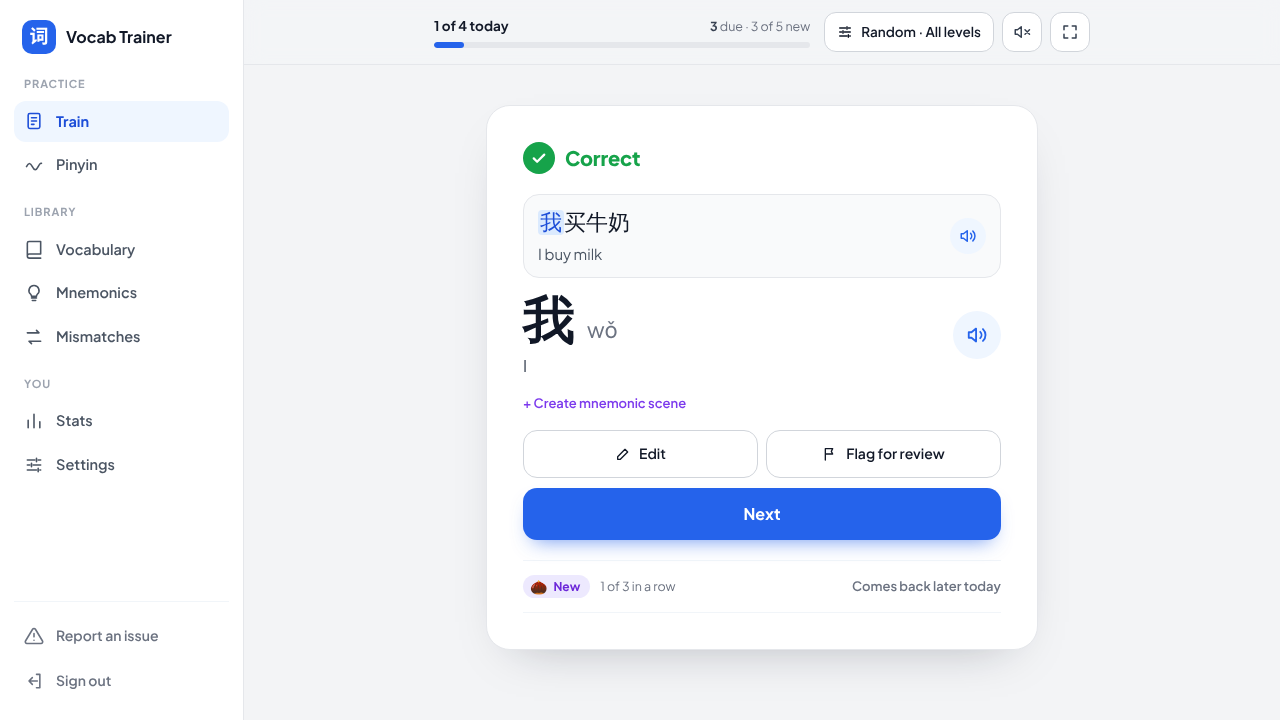
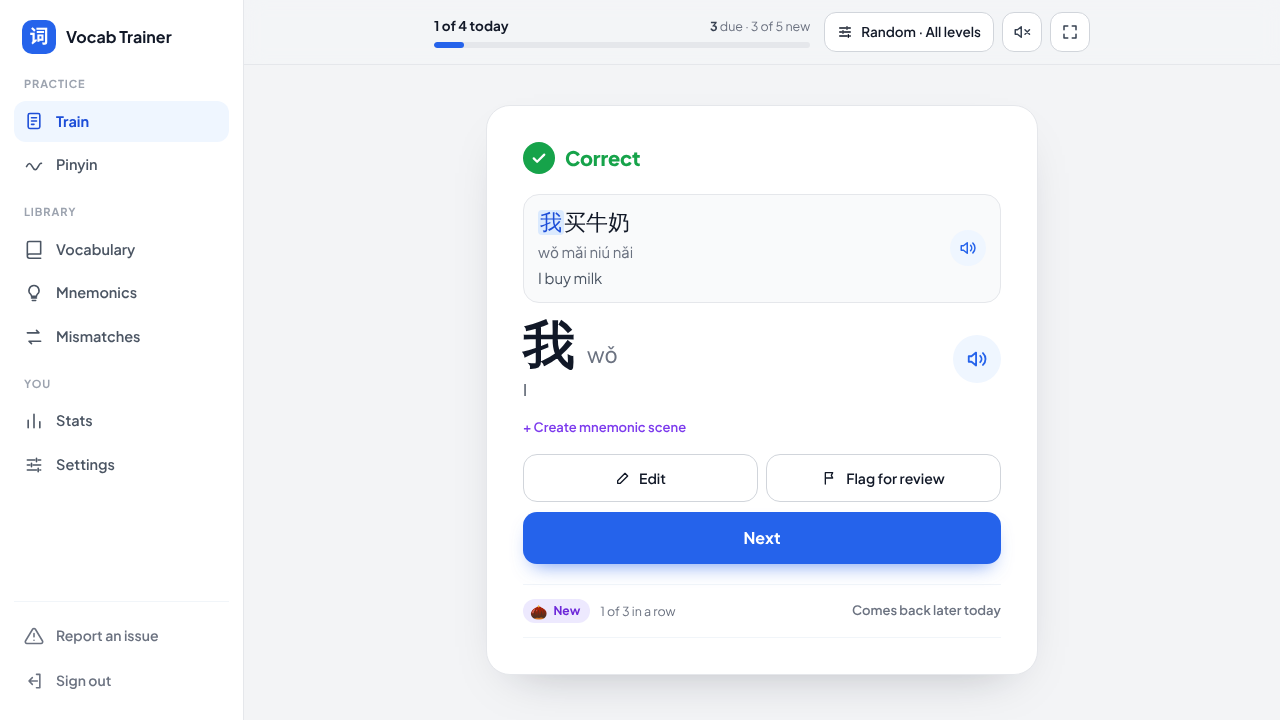
Show sentence pinyin on the sentence-blank result screen (#615)
The sentence-blank card now carries the sentence's stored pinyin
(sentence_pinyin). The result screen shows it under the full sentence,
above the translation. The question screen does not show it, because
it would give away the answer. When the sentence has no pinyin, the
line is not shown.

Claude-Session: https://claude.ai/code/session_01CJtqNe5tVmbCgrQGrssY3E

diff --git a/service/frontend/train-result.js b/service/frontend/train-result.js
@@ -168,20 +168,23 @@ function sentenceHighlightHTML(sentence, word) {
     escHtml(sentence.slice(i + word.length));
 }
 
-// renderResultSentence shows the full sentence, its translation and a
-// speaker button above the answer word on sentence-blank results (issue
-// #557); hidden for every other card.
+// renderResultSentence shows the full sentence, its pinyin, its translation
+// and a speaker button above the answer word on sentence-blank results
+// (issues #557, #615); hidden for every other card.
 function renderResultSentence(zhText) {
   if (currentCard.card_type !== 'sentence' || !currentCard.sentence_text) {
     hide('result-sentence');
     return;
   }
   const el = $('result-sentence');
+  const pinyin = currentCard.sentence_pinyin
+    ? `<div class="tr-sentence-pinyin">${escHtml(currentCard.sentence_pinyin)}</div>` : '';
   const transl = currentCard.sentence_translation
     ? `<div class="tr-sentence-transl">${escHtml(currentCard.sentence_translation)}</div>` : '';
   el.innerHTML = `<div class="tr-word-row">
       <div class="tr-word-main">
         <div class="tr-sentence-zh font-hanzi">${sentenceHighlightHTML(currentCard.sentence_text, zhText)}</div>
+        ${pinyin}
         ${transl}
       </div>
       ${speakerButtonHTML('result-sentence-play', true)}

diff --git a/e2e/sentence-blank.spec.js b/e2e/sentence-blank.spec.js
@@ -256,6 +256,7 @@ test.describe('Sentence-blank training mode', () => {
     await expect(block).toBeVisible();
     await expect(block.locator('.tr-sentence-zh')).toHaveText('我买牛奶');
     await expect(block.locator('.tr-sentence-zh mark')).toHaveText(correctZh);
+    await expect(block.locator('.tr-sentence-pinyin')).toHaveText('wǒ mǎi niú nǎi');
     await expect(block.locator('.tr-sentence-transl')).toHaveText('I buy milk');
     // The sentence sits above the answer word.
     const blockBox = await block.boundingBox();
@@ -278,6 +279,7 @@ test.describe('Sentence-blank training mode', () => {
 
     await expect(page.locator('#result-sentence')).toBeVisible();
     await expect(page.locator('#result-sentence .tr-sentence-zh')).toHaveText('我买牛奶');
+    await expect(page.locator('#result-sentence .tr-sentence-pinyin')).toHaveText('wǒ mǎi niú nǎi');
     await expect(page.locator('#result-sentence .tr-sentence-transl')).toHaveText('I buy milk');
     await captureForPR(page, 'sentence-result-wrong');
   });

diff --git a/service/frontend/app.css b/service/frontend/app.css
@@ -451,6 +451,7 @@ label.st-text { cursor: pointer; }
 .tr-sentence-box { margin-bottom: 14px; padding: 12px 14px; border-radius: 16px; background: #f9fafb; border: 1px solid #e5e7eb; }
 .tr-sentence-zh { font-size: 22px; line-height: 1.45; color: #111827; overflow-wrap: anywhere; }
 .tr-sentence-zh mark { background: #dbeafe; color: #1d4ed8; border-radius: 4px; padding: 0 2px; }
+.tr-sentence-pinyin { margin-top: 2px; font-size: 15px; line-height: 1.5; color: #6b7280; overflow-wrap: anywhere; }
 .tr-sentence-transl { margin-top: 4px; font-size: 15px; line-height: 1.5; color: #4b5563; }
 .tr-answer-form { margin-top: 26px; display: flex; flex-direction: column; gap: 10px; }
 .tr-input { flex: 1; min-width: 0; width: 100%; border: 1.5px solid #d1d5db; border-radius: 12px; padding: 12px 14px; font-size: 16px; color: #111827; background: #fff; font-family: inherit; }

diff --git a/service/db/sentences.go b/service/db/sentences.go
@@ -28,10 +28,11 @@ type wordSegment struct {
 // sentenceBlankMatch is the result of findSentenceBlank: which due word was
 // found inside which eligible sentence, and the exact substring to blank.
 type sentenceBlankMatch struct {
-	SentenceID   int64
-	SentenceText string
-	TargetWordID int64
-	TargetText   string
+	SentenceID     int64
+	SentenceText   string
+	SentencePinyin string
+	TargetWordID   int64
+	TargetText     string
 }
 
 // sentencePunctuationCutset is trailing sentence-ending punctuation stripped
@@ -207,11 +208,16 @@ func (s *Store) findSentenceBlank(ctx context.Context, userID int64, tags []stri
 				continue
 			}
 			if best == nil || dueDate.Before(bestDue) {
+				var pinyin string
+				if c.Pinyin != nil {
+					pinyin = *c.Pinyin
+				}
 				best = &sentenceBlankMatch{
-					SentenceID:   c.ID,
-					SentenceText: c.Text,
-					TargetWordID: seg.WordID,
-					TargetText:   seg.Text,
+					SentenceID:     c.ID,
+					SentenceText:   c.Text,
+					SentencePinyin: pinyin,
+					TargetWordID:   seg.WordID,
+					TargetText:     seg.Text,
 				}
 				bestDue = dueDate
 			}
@@ -282,6 +288,7 @@ func (s *Store) NextSentenceBlankCard(ctx context.Context, userID int64, cfg mod
 			SentenceBlank:       strings.Replace(match.SentenceText, match.TargetText, sentenceBlankToken, 1),
 			SentenceID:          match.SentenceID,
 			SentenceText:        match.SentenceText,
+			SentencePinyin:      match.SentencePinyin,
 			SentenceTranslation: sentenceTranslation,
 			DueDate:             progress.DueDate,
 			IntervalDays:        progress.IntervalDays,
@@ -312,6 +319,7 @@ func (s *Store) NextSentenceBlankCard(ctx context.Context, userID int64, cfg mod
 				SentenceBlank:       blanked,
 				SentenceID:          match.SentenceID,
 				SentenceText:        match.SentenceText,
+				SentencePinyin:      match.SentencePinyin,
 				SentenceTranslation: sentenceTranslation,
 				DueDate:             progress.DueDate,
 				IntervalDays:        progress.IntervalDays,

diff --git a/service/models/models.go b/service/models/models.go
@@ -260,11 +260,13 @@ type QuizCard struct {
 	// the target word/substring replaced by "___".
 	SentenceContext string `json:"sentence_context,omitempty"`
 	SentenceBlank   string `json:"sentence_blank,omitempty"`
-	// SentenceID, SentenceText and SentenceTranslation describe the full
-	// sentence (zh word ID, zh text, joined translations) for the result
-	// screen, whichever side was blanked (issue #557).
+	// SentenceID, SentenceText, SentencePinyin and SentenceTranslation
+	// describe the full sentence (zh word ID, zh text, stored pinyin, joined
+	// translations) for the result screen, whichever side was blanked
+	// (issues #557, #615).
 	SentenceID          int64  `json:"sentence_id,omitempty"`
 	SentenceText        string `json:"sentence_text,omitempty"`
+	SentencePinyin      string `json:"sentence_pinyin,omitempty"`
 	SentenceTranslation string `json:"sentence_translation,omitempty"`
 	// IsAlsoComponent is set on word cards whose zh text is also tracked as a
 	// hanzi component — the reciprocal of IsAlsoWord.

diff --git a/service/db/sentences_test.go b/service/db/sentences_test.go
@@ -293,6 +293,9 @@ func assertFullSentence(t *testing.T, card *models.QuizCard, sentenceID int64) {
 	if card.SentenceTranslation != "I buy milk" {
 		t.Errorf("want sentence_translation %q, got %q", "I buy milk", card.SentenceTranslation)
 	}
+	if card.SentencePinyin != "wǒ mǎi niú nǎi" {
+		t.Errorf("want sentence_pinyin %q, got %q", "wǒ mǎi niú nǎi", card.SentencePinyin)
+	}
 }
 
 func TestNextSentenceBlankCard_TranslationBlankDirection(t *testing.T) {

diff --git a/docs/features.md b/docs/features.md
@@ -67,7 +67,7 @@ Everything the app does, grouped by area. For how new words and reviews are sche
 - **Bucket growth indicator.** The result screen shows one growth icon (🌰🌱🌿🌳🌸) for each accuracy tier: New, Struggling, Learning, Practicing, or Mastered. The icon marks the current tier of a word, HMM entity, or component, on both correct and wrong answers.
   - **Celebrate bucket changes** is an optional setting, off by default, in Settings → Training Mode → Quiz Display. When a correct answer advances a word's tier, this setting shows a "Level up" screen before the result screen. The old tier's icon turns and fades into the new one in a tile that changes colour, then a ring pulses once. The screen shows the word and the old → new tier chips.
 
-- **Sentence fill-in-the-blank.** An optional training mode, off by default, in Settings → Training Mode → Quiz Display ("Sentence fill-in-the-blank" + a frequency percentage). Tag a zh word with a tag that ends in `_s` (for example `hsk2-1_s`) to mark it as a sentence. The tag is in the same tag group as the list it belongs to (`hsk2-1_s` is in the HSK group), so in a training filter the sentences are an addition to the list (OR), not a restriction (AND). When enabled, the training page occasionally shows one of your sentences with one word blanked out instead of a plain word card — either the Chinese word is blanked (translation shown as context) or a word inside the sentence's translation is blanked (Chinese shown as context), following the same direction logic as progressive mode. A sentence only becomes eligible once every word it contains (punctuation aside — commas, quotation marks, etc. are skipped) has been reviewed at least once, and the app always blanks whichever of those words is next due, so the mode reinforces words you already know in context. Answering updates that word's own SM-2 progress, the same as answering it in a normal quiz card would. The result screen shows the full Chinese sentence above the answer word, with the answer word marked, the sentence translation and a speaker button that reads out the sentence. When auto-play is on, the result screen reads out the full sentence.
+- **Sentence fill-in-the-blank.** An optional training mode, off by default, in Settings → Training Mode → Quiz Display ("Sentence fill-in-the-blank" + a frequency percentage). Tag a zh word with a tag that ends in `_s` (for example `hsk2-1_s`) to mark it as a sentence. The tag is in the same tag group as the list it belongs to (`hsk2-1_s` is in the HSK group), so in a training filter the sentences are an addition to the list (OR), not a restriction (AND). When enabled, the training page occasionally shows one of your sentences with one word blanked out instead of a plain word card — either the Chinese word is blanked (translation shown as context) or a word inside the sentence's translation is blanked (Chinese shown as context), following the same direction logic as progressive mode. A sentence only becomes eligible once every word it contains (punctuation aside — commas, quotation marks, etc. are skipped) has been reviewed at least once, and the app always blanks whichever of those words is next due, so the mode reinforces words you already know in context. Answering updates that word's own SM-2 progress, the same as answering it in a normal quiz card would. The result screen shows the full Chinese sentence above the answer word, with the answer word marked, the sentence pinyin (if the sentence has pinyin), the sentence translation and a speaker button that reads out the sentence. When auto-play is on, the result screen reads out the full sentence.
 
 - Every Chinese word has a 🔊 read-aloud button. The button plays a cached MP3 file, generated with Microsoft Edge neural TTS, which is built into the binary. If this fails, the button falls back silently to the browser's Web Speech API.
 
